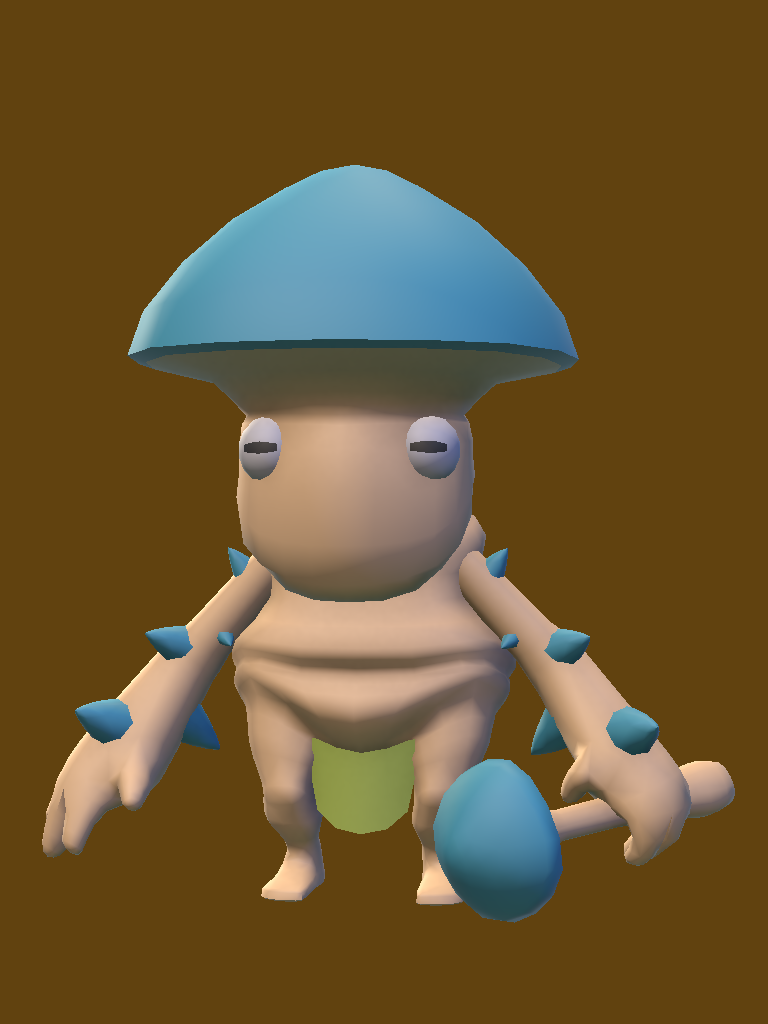
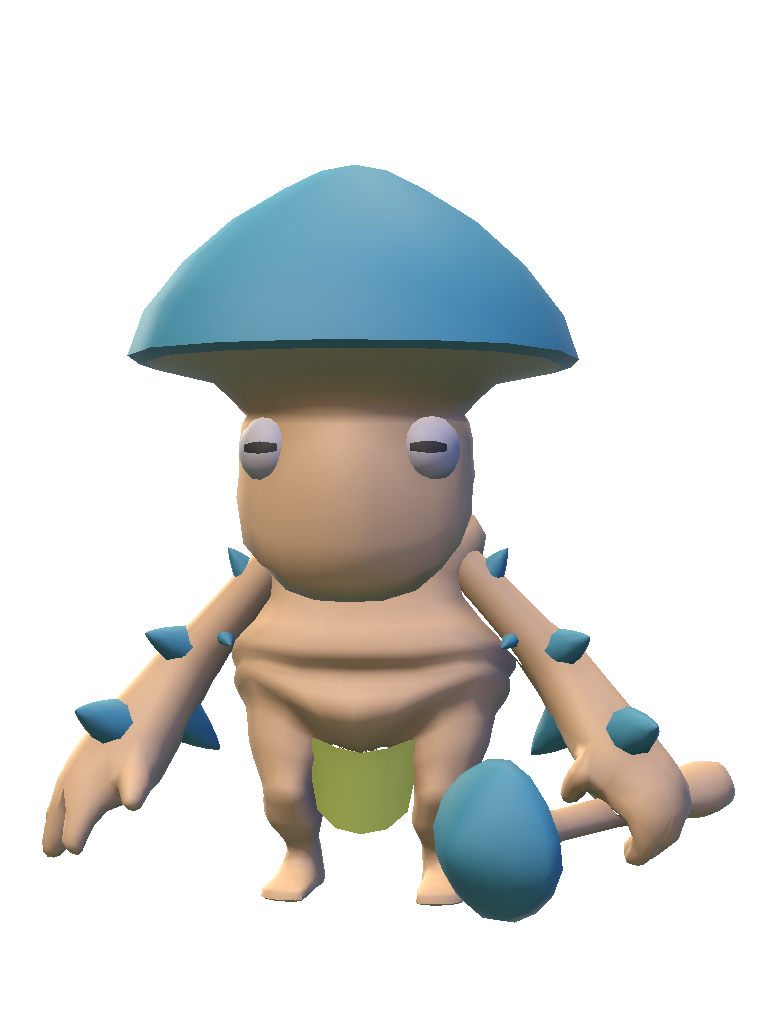
fix: remove character bg colors, hero 70vh, two-tone button shine (bright top half, darker bottom half)

diff --git a/src/app/globals.css b/src/app/globals.css
@@ -92,8 +92,9 @@ body {
     content: "";
     inset: 3px;
     border-radius: 9px;
-    background: linear-gradient(180deg, #ffe44a 0%, #f5b800 50%, #e8a000 100%);
-    box-shadow: inset 0 0 4px 1px rgba(255,255,255,0.3);
+    /* Two-tone: brighter top half, darker bottom half */
+    background: linear-gradient(180deg, #ffe85a 0%, #ffe040 48%, #f0b020 52%, #e8a000 100%);
+    box-shadow: inset 0 0 4px 1px rgba(255,255,255,0.2);
     z-index: 0;
   }
   .btn-primary::after {
@@ -102,9 +103,9 @@ body {
     top: 4px;
     right: 6px;
     left: 6px;
-    height: 45%;
-    border-radius: 8px;
-    background: linear-gradient(180deg, rgba(255,255,230,0.55) 0%, rgba(255,245,180,0.2) 60%, transparent 100%);
+    height: 46%;
+    border-radius: 7px;
+    background: rgba(255,255,255,0.18);
     z-index: 1;
   }
   .btn-primary > * {
@@ -157,8 +158,8 @@ body {
     content: "";
     inset: 3px;
     border-radius: 9px;
-    background: linear-gradient(180deg, #7fc427, #58a221);
-    box-shadow: inset 0 0 4px 1px rgba(255,255,255,0.25);
+    background: linear-gradient(180deg, #8ed44a 0%, #7fc427 48%, #58a221 52%, #4a8d1a 100%);
+    box-shadow: inset 0 0 4px 1px rgba(255,255,255,0.2);
     z-index: 0;
   }
   .btn-secondary::after {
@@ -167,9 +168,9 @@ body {
     top: 4px;
     right: 6px;
     left: 6px;
-    height: 45%;
-    border-radius: 8px;
-    background: linear-gradient(180deg, rgba(220,240,140,0.55) 0%, rgba(180,230,80,0.2) 60%, transparent 100%);
+    height: 46%;
+    border-radius: 7px;
+    background: rgba(255,255,255,0.15);
     z-index: 1;
   }
   .btn-secondary > * {

diff --git a/src/components/Hero.tsx b/src/components/Hero.tsx
@@ -23,7 +23,7 @@ export default function Hero() {
   }, []);
 
   return (
-    <section ref={sectionRef} className="relative min-h-[85vh] overflow-hidden">
+    <section ref={sectionRef} className="relative min-h-[70vh] overflow-hidden">
       <div
         className="absolute inset-0 bg-cover bg-center bg-no-repeat"
         style={{ backgroundImage: "url('/loading-2.jpg')" }}
@@ -31,7 +31,7 @@ export default function Hero() {
       <div className="absolute inset-0 bg-gradient-to-r from-black/80 via-black/40 to-transparent" />
       <div className="absolute inset-0 bg-gradient-to-t from-black/60 via-transparent to-transparent" />
 
-      <div className="relative mx-auto flex min-h-[85vh] max-w-6xl items-center px-6">
+      <div className="relative mx-auto flex min-h-[70vh] max-w-6xl items-center px-6">
         <div className="max-w-xl">
           <p
             data-hero-sub
